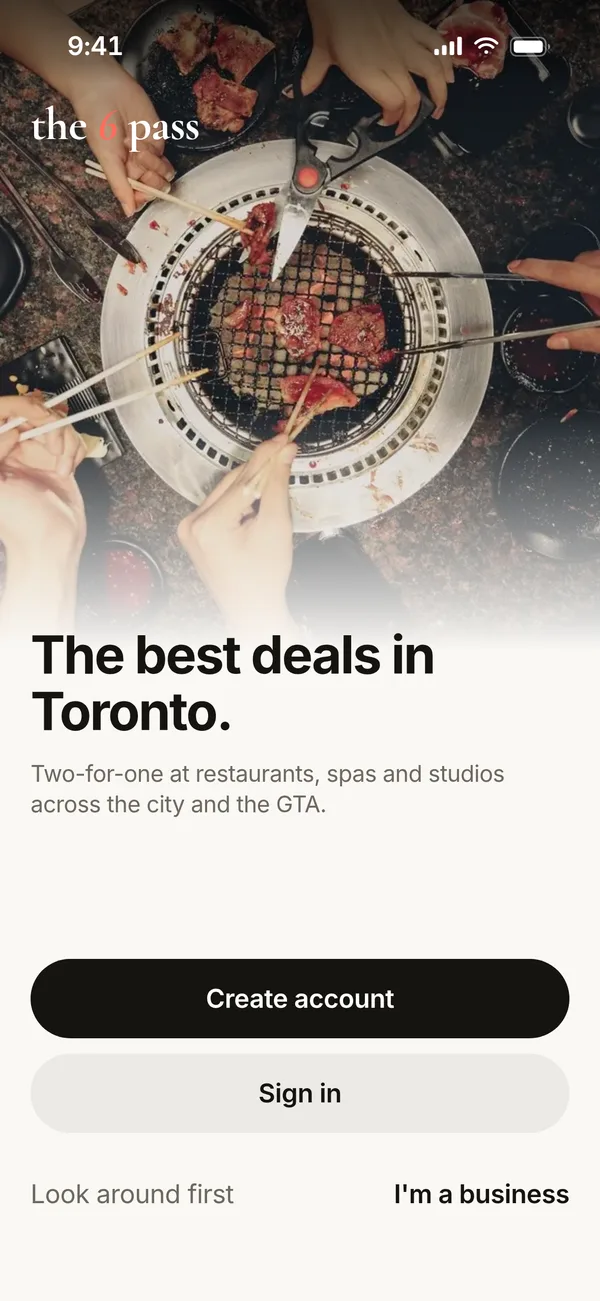
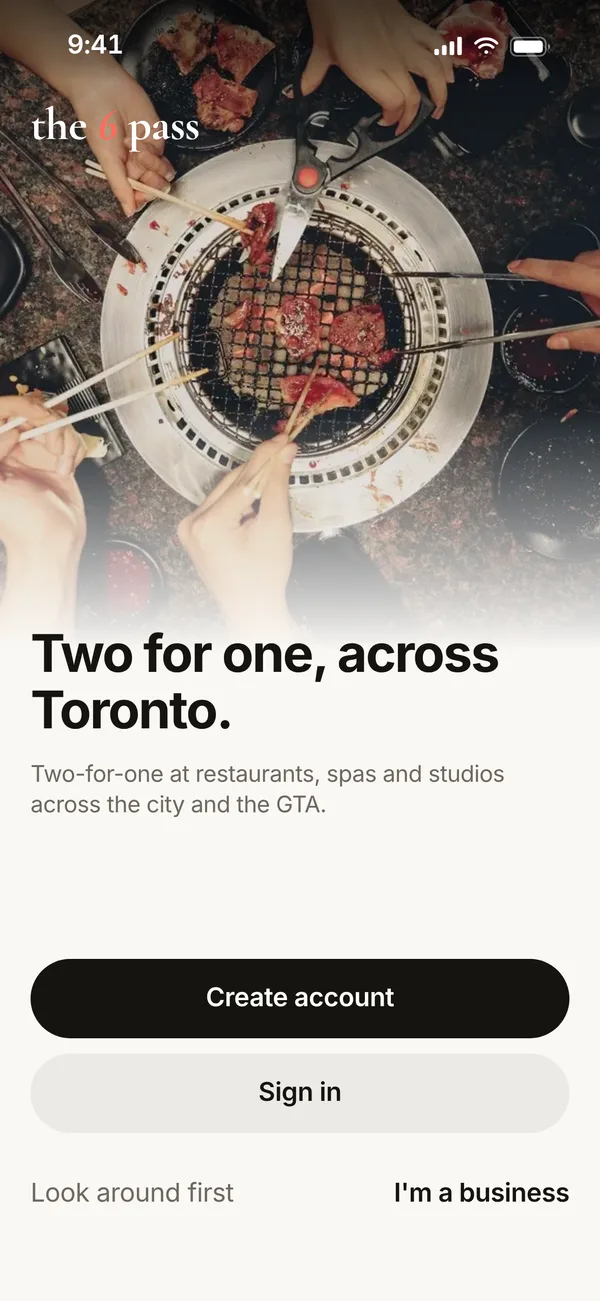
Fixes from the site audit
- Phone menu: How it works, Places, For partners, FAQ and Sign in
  were unreachable on phones.
- Example places no longer look like real partners: no made-up chef
  quotes on place pages, no Founding Partner badge in the website's
  app screens (the owner demo keeps it), and 'On today' only shows
  when the page knows today's day.
- One promise about emails everywhere: a welcome email and a few
  updates before we open (it said 'one email' in two places).
- Earnings calculator: starts at 2 guests a day, shows what's left
  after the owner's cost of what they serve, and is called an
  estimate.
- Hero app screen: 'The best deals in Toronto' is now 'Two for one,
  across Toronto.' (screens re-shot).
- Share image on /places and place pages; /app title was doubled.

Claude-Session: https://claude.ai/code/session_01Hni5Cef4CA9zjzKqZXs5rc

diff --git a/src/components/EarningsCalculator.tsx b/src/components/EarningsCalculator.tsx
@@ -15,7 +15,8 @@ export function EarningsCalculator() {
   const [typeId, setTypeId] = useState(c.types[0].id);
   const [spend, setSpend] = useState(c.types[0].spend);
   const [item, setItem] = useState(c.types[0].item);
-  const [guests, setGuests] = useState(4);
+  const [cost, setCost] = useState(c.types[0].cost);
+  const [guests, setGuests] = useState(2);
   const [days, setDays] = useState(3);
 
   function pickType(next: string) {
@@ -23,9 +24,12 @@ export function EarningsCalculator() {
     setTypeId(t.id);
     setSpend(t.spend);
     setItem(t.item);
+    setCost(t.cost);
   }
 
-  const month = (guests * spend - (guests / 2) * item) * days * 4.33;
+  const weeks = days * 4.33;
+  const sales = (guests * spend - (guests / 2) * item) * weeks;
+  const net = sales - (cost / 100) * guests * spend * weeks;
   const guestsMonth = Math.round(guests * days * 4.33);
 
   return (
@@ -39,7 +43,7 @@ export function EarningsCalculator() {
             ))}
           </select>
         </div>
-        <div className="grid gap-5 sm:grid-cols-2">
+        <div className="grid gap-5 sm:grid-cols-3">
           <div>
             <label htmlFor={`${id}-spend`} className={label}>{c.spend} ($)</label>
             <input id={`${id}-spend`} type="number" inputMode="numeric" min={0} max={2000} value={spend} onChange={(e) => setSpend(clamp(e.target.value, 2000))} className={input} />
@@ -48,12 +52,16 @@ export function EarningsCalculator() {
             <label htmlFor={`${id}-item`} className={label}>{c.item} ($)</label>
             <input id={`${id}-item`} type="number" inputMode="numeric" min={0} max={2000} value={item} onChange={(e) => setItem(clamp(e.target.value, 2000))} className={input} />
           </div>
+          <div>
+            <label htmlFor={`${id}-cost`} className={label}>{c.cost}</label>
+            <input id={`${id}-cost`} type="number" inputMode="numeric" min={0} max={100} value={cost} onChange={(e) => setCost(clamp(e.target.value, 100))} className={input} />
+          </div>
         </div>
         <div>
           <label htmlFor={`${id}-guests`} className={label}>
             {c.guests} <span className="font-serif text-[22px] font-normal">{guests}</span>
           </label>
-          <input id={`${id}-guests`} type="range" min={2} max={20} step={2} value={guests} onChange={(e) => setGuests(Number(e.target.value))} className="w-full accent-[#c2452d]" />
+          <input id={`${id}-guests`} type="range" min={2} max={12} step={2} value={guests} onChange={(e) => setGuests(Number(e.target.value))} className="w-full accent-[#c2452d]" />
         </div>
         <div>
           <label htmlFor={`${id}-days`} className={label}>
@@ -65,10 +73,18 @@ export function EarningsCalculator() {
 
       <div className="on-dark flex flex-col justify-between gap-6 rounded-[24px] bg-night p-6 text-[#f3e9de] md:p-8">
         <div aria-live="polite">
-          <p className="text-[13px] font-semibold uppercase tracking-[0.14em] text-peach">{c.month}</p>
-          <p className="mt-2 font-serif text-[clamp(48px,6vw,72px)] leading-none">{money(month)}</p>
-          <p className="mt-6 text-[13px] font-semibold uppercase tracking-[0.14em] text-peach">{c.year}</p>
-          <p className="mt-2 font-serif text-[36px] leading-none">{money(month * 12)}</p>
+          <p className="text-[13px] font-semibold uppercase tracking-[0.14em] text-peach">{c.net}</p>
+          <p className="mt-2 font-serif text-[clamp(48px,6vw,72px)] leading-none">{money(net)}</p>
+          <dl className="mt-6 grid grid-cols-2 gap-4 text-[15px]">
+            <div>
+              <dt className="text-pale">{c.month}</dt>
+              <dd className="mt-1 font-serif text-[28px] leading-none">{money(sales)}</dd>
+            </div>
+            <div>
+              <dt className="text-pale">{c.year}</dt>
+              <dd className="mt-1 font-serif text-[28px] leading-none">{money(net * 12)}</dd>
+            </div>
+          </dl>
           <p className="mt-6 text-[15px] text-pale">
             About {guestsMonth} {c.guestsMonth}
           </p>

diff --git a/src/content/owners.ts b/src/content/owners.ts
@@ -52,23 +52,25 @@ export const ownersPage = {
 
   // "Calculate my earnings" (after ClassPass). Every number is the owner's own.
   calculator: {
-    eyebrow: "Calculate your earnings",
+    eyebrow: "Estimate your earnings",
     title: "What could it bring in?",
-    intro: "Put in your own numbers. This is an estimate to think with, not a promise of visits.",
+    intro: "Put in your own numbers. This is an estimate to think with, not a promise of visits: how many members come depends on the offer, the days and the area.",
     type: "Type of place",
     types: [
-      { id: "restaurant", label: "Restaurant or café", spend: 35, item: 24 },
-      { id: "spa", label: "Spa", spend: 140, item: 30 },
-      { id: "studio", label: "Yoga or fitness studio", spend: 30, item: 30 },
+      { id: "restaurant", label: "Restaurant or café", spend: 35, item: 24, cost: 32 },
+      { id: "spa", label: "Spa", spend: 140, item: 30, cost: 30 },
+      { id: "studio", label: "Yoga or fitness studio", spend: 30, item: 30, cost: 10 },
     ],
     spend: "Average spend per guest",
     item: "What you give on the house, per pair",
     guests: "New 6 Pass guests on each offer day",
     days: "Days a week the offer runs",
-    month: "Extra revenue a month",
-    year: "Extra revenue a year",
+    cost: "Your cost of what you serve (% of price)",
+    month: "Extra sales a month",
+    net: "Left after your costs, a month",
+    year: "Left after your costs, a year",
     guestsMonth: "new guests a month",
-    note: "Members come in pairs and one of the pair gets the offer. The estimate is your spend per guest times the guests, minus what you give on the house, over about 4.3 weeks a month. Drinks and extras would be on top.",
+    note: "How it works out: members come in pairs and one of the pair gets the offer. Sales are your spend per guest times the guests, minus what you give on the house. What's left takes off your cost of everything served, including the free item. About 4.3 weeks a month. Rent and wages are the same with or without these guests, which is why quiet days are the ones to fill.",
     cta: "Let's get started",
   },
 

diff --git a/src/components/SiteHeader.tsx b/src/components/SiteHeader.tsx
@@ -23,7 +23,7 @@ export function SiteHeader({ popup = true }: { home?: boolean; popup?: boolean }
             </Link>
           ))}
         </nav>
-        <div className="flex items-center gap-5 text-[15px]">
+        <div className="flex items-center gap-3 text-[15px] sm:gap-5">
           <Link href={signIn.href} className="hidden font-semibold text-ink underline-offset-4 hover:underline sm:inline">
             {signIn.label}
           </Link>
@@ -34,6 +34,29 @@ export function SiteHeader({ popup = true }: { home?: boolean; popup?: boolean }
               Join the waitlist
             </Link>
           )}
+          {/* Phones and tablets: the same links in a small menu. */}
+          <details className="group relative lg:hidden">
+            <summary
+              aria-label="Menu"
+              className="grid size-11 cursor-pointer list-none place-items-center rounded-full border border-line bg-white/80 [&::-webkit-details-marker]:hidden"
+            >
+              <svg aria-hidden="true" viewBox="0 0 20 20" className="size-5" fill="none" stroke="currentColor" strokeWidth="1.8" strokeLinecap="round">
+                <path className="group-open:hidden" d="M3 6h14M3 10h14M3 14h14" />
+                <path className="hidden group-open:block" d="M5 5l10 10M15 5L5 15" />
+              </svg>
+            </summary>
+            <nav aria-label="Main" className="absolute right-0 top-[calc(100%+8px)] w-[min(260px,calc(100vw-32px))] rounded-[20px] border border-line bg-paper p-2 shadow-card">
+              <ul>
+                {[...nav, signIn].map((n) => (
+                  <li key={n.href}>
+                    <Link href={n.href} className="flex min-h-[48px] items-center rounded-xl px-4 text-[16px] font-medium hover:bg-mist">
+                      {n.label}
+                    </Link>
+                  </li>
+                ))}
+              </ul>
+            </nav>
+          </details>
         </div>
       </header>
     </div>

diff --git a/src/content/site.ts b/src/content/site.ts
@@ -57,7 +57,7 @@ export const hero = {
   headlineItalicWord: "two",
   headlineItalic: "",
   lede: "One yearly pass for Toronto and the GTA. Pay for one, and the second is on the house at hand-picked restaurants, spas and studios. Go out more, for less.",
-  formNote: "No spam. One email when we open, with founding member pricing.",
+  formNote: "No spam. A welcome email and a few updates before we open.",
   appLink: "See what the app looks like",
   // Under the form note. No dates per area.
   areasLine: "Opening across Toronto and the GTA.",
@@ -65,7 +65,7 @@ export const hero = {
   // The phone next to the headline: the app's own opening screen.
   phone: {
     src: "/preview/v2/landing",
-    alt: "The 6 Pass app's opening screen: The best deals in Toronto. Create account, Sign in, Look around first.",
+    alt: "The 6 Pass app's opening screen: Two for one, across Toronto. Create account, Sign in, Look around first.",
     caption: "The app opens to members on March 16, 2027.",
   },
 };
@@ -285,7 +285,7 @@ export const countdown = {
 // The last join form on the home page.
 export const closing = {
   title: "Hear first when we open.",
-  text: "One email on March 16, with founding member pricing.",
+  text: "A welcome email now, a few updates as we get ready, and founding member pricing before we open.",
 };
 
 export const footer = {
@@ -369,7 +369,7 @@ export const waitlist = {
     "Founding member pricing, before anyone else",
   ],
   popupFormTitle: "Join the waitlist",
-  popupFormNote: "Free to join. No spam, just a few emails before we open.",
+  popupFormNote: "Free to join. A welcome email and a few updates before we open.",
   errors: {
     emailMissing: "Enter your email address.",
     emailInvalid: "That email doesn't look right. Check it and try again.",

diff --git a/src/app/(site)/places/[id]/page.tsx b/src/app/(site)/places/[id]/page.tsx
@@ -23,7 +23,7 @@ export async function generateMetadata({ params }: Props): Promise<Metadata> {
   const title = `${p.name}, ${p.neighbourhood}`;
   const description = `${offerLine(p.offer)}. ${p.blurb} An example place on The 6 Pass.`;
   // Example places stay out of search until they are real partners.
-  return { title, description, alternates: { canonical: `/places/${p.id}` }, robots: { index: false, follow: true } };
+  return { title, description, alternates: { canonical: `/places/${p.id}` }, robots: { index: false, follow: true }, openGraph: { title, description, url: `/places/${p.id}`, images: [`${p.image}-1200.webp`] } };
 }
 
 /** "17:00" -> "5 pm", "22:30" -> "10:30 pm". */
@@ -136,12 +136,6 @@ export default async function Place({ params }: Props) {
                     ))}
                   </ul>
                 </section>
-              )}
-              {d.note && (
-                <figure className="mt-8 rounded-[20px] bg-mist p-6">
-                  <blockquote className="font-serif text-[22px] italic leading-snug">“{d.note}”</blockquote>
-                  {d.noteBy && <figcaption className="mt-3 text-sm text-muted">{d.noteBy}</figcaption>}
-                </figure>
               )}
             </div>
           </div>

diff --git a/src/components/PlaceCard.tsx b/src/components/PlaceCard.tsx
@@ -14,9 +14,10 @@ export function daysLabel(days: boolean[]) {
 export const offerLine = (offer: string) => offer.replace(/\.$/, "");
 
 // One example place: photo, area, name, offer, days and uses.
-// today: Monday-first index of today, or null before the page knows it.
+// today: Monday-first index of today. Left out (or null before the page knows
+// it), the "On today" pill is hidden rather than guessed.
 export function PlaceCard({ p, today }: { p: DemoPlace; today?: number | null }) {
-  const onToday = today == null ? true : p.days[today];
+  const onToday = today != null && p.days[today];
   return (
     <Link
       href={`/places/${p.id}`}

diff --git a/src/app/app/layout.tsx b/src/app/app/layout.tsx
@@ -11,7 +11,7 @@ const ui = Inter({ subsets: ["latin"], variable: "--f-ui" });
 const display = Cormorant_Garamond({ subsets: ["latin"], weight: ["600"], style: ["normal", "italic"], variable: "--f-display" });
 
 export const metadata: Metadata = {
-  title: { default: "The 6 Pass", template: "%s · The 6 Pass" },
+  title: { absolute: "The 6 Pass app", template: "%s · The 6 Pass" },
   description: "A clickable mock of The 6 Pass app. Places shown are examples.",
   // A mock with made-up places: keep it out of search.
   robots: { index: false, follow: false },

diff --git a/src/content/app.ts b/src/content/app.ts
@@ -28,7 +28,7 @@ export const appCopy = {
     next: "The next step is a one-page letter of intent with your offer, your days and your limits.",
   },
   landing: {
-    line: "The best deals in Toronto.",
+    line: "Two for one, across Toronto.",
     sub: "Two-for-one at restaurants, spas and studios across the city and the GTA.",
     // The opening photo: friends sharing a table (CC0, see docs/IMAGE-CREDITS.md).
     image: "/demo/kbbq",

diff --git a/src/app/(site)/places/page.tsx b/src/app/(site)/places/page.tsx
@@ -10,7 +10,7 @@ export const metadata: Metadata = {
   title: c.seo.title,
   description: c.seo.description,
   alternates: { canonical: "/places" },
-  openGraph: { type: "website", title: c.seo.title, description: c.seo.description, url: "/places" },
+  openGraph: { type: "website", title: c.seo.title, description: c.seo.description, url: "/places", images: ["/opengraph-image"] },
 };
 
 export default function Places() {
